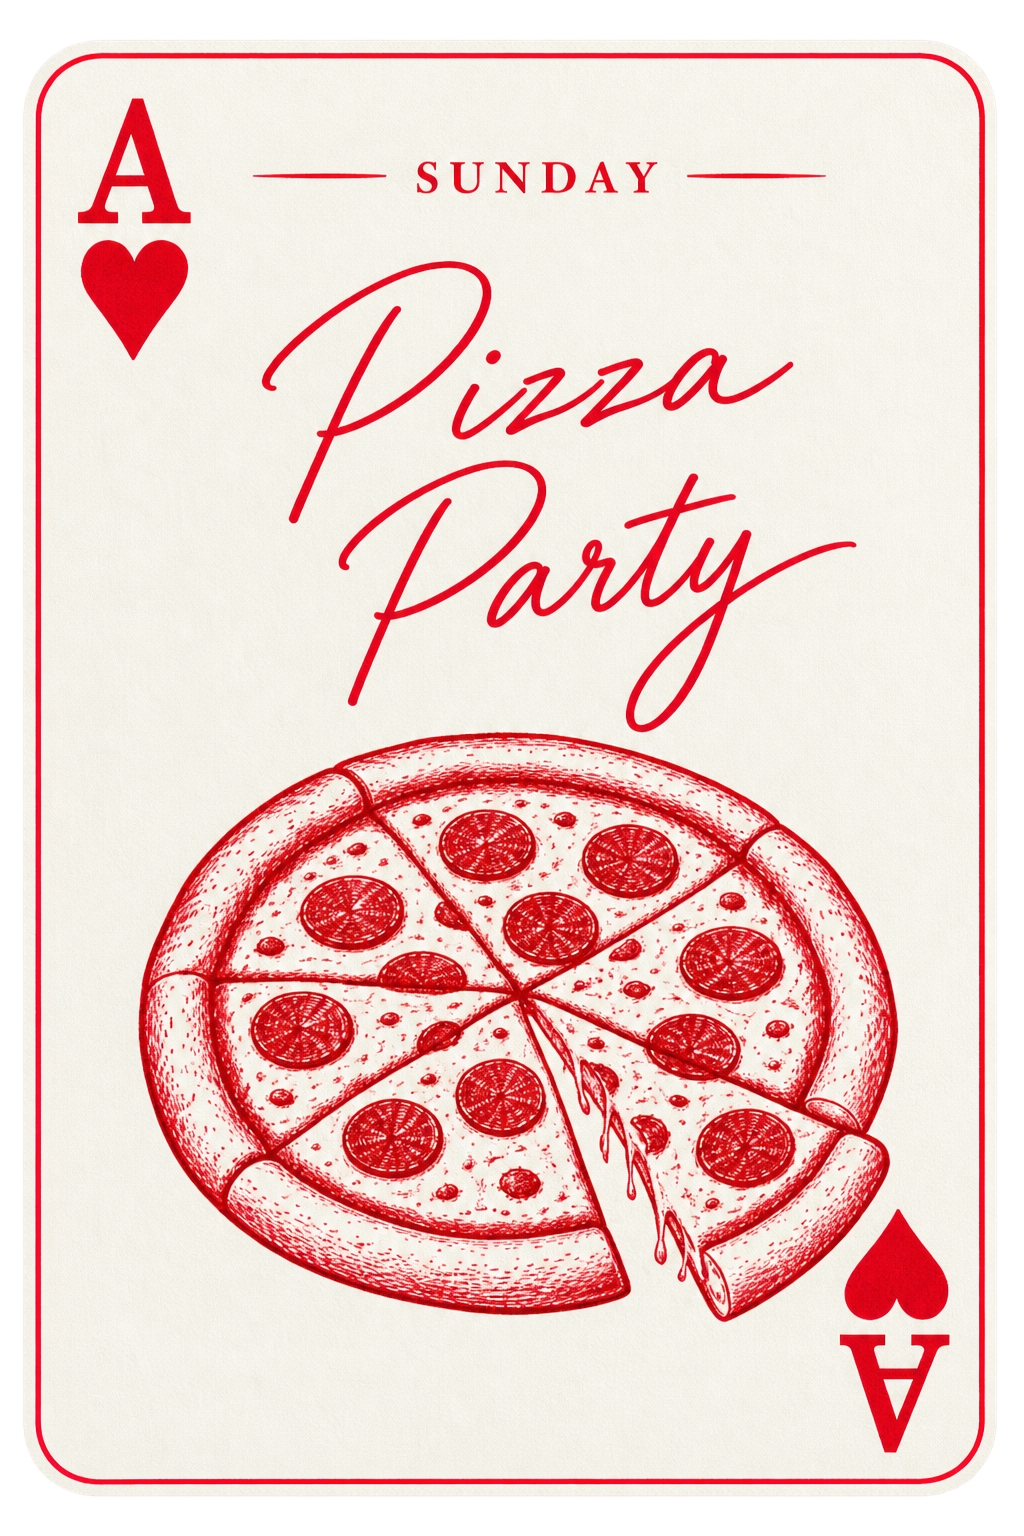
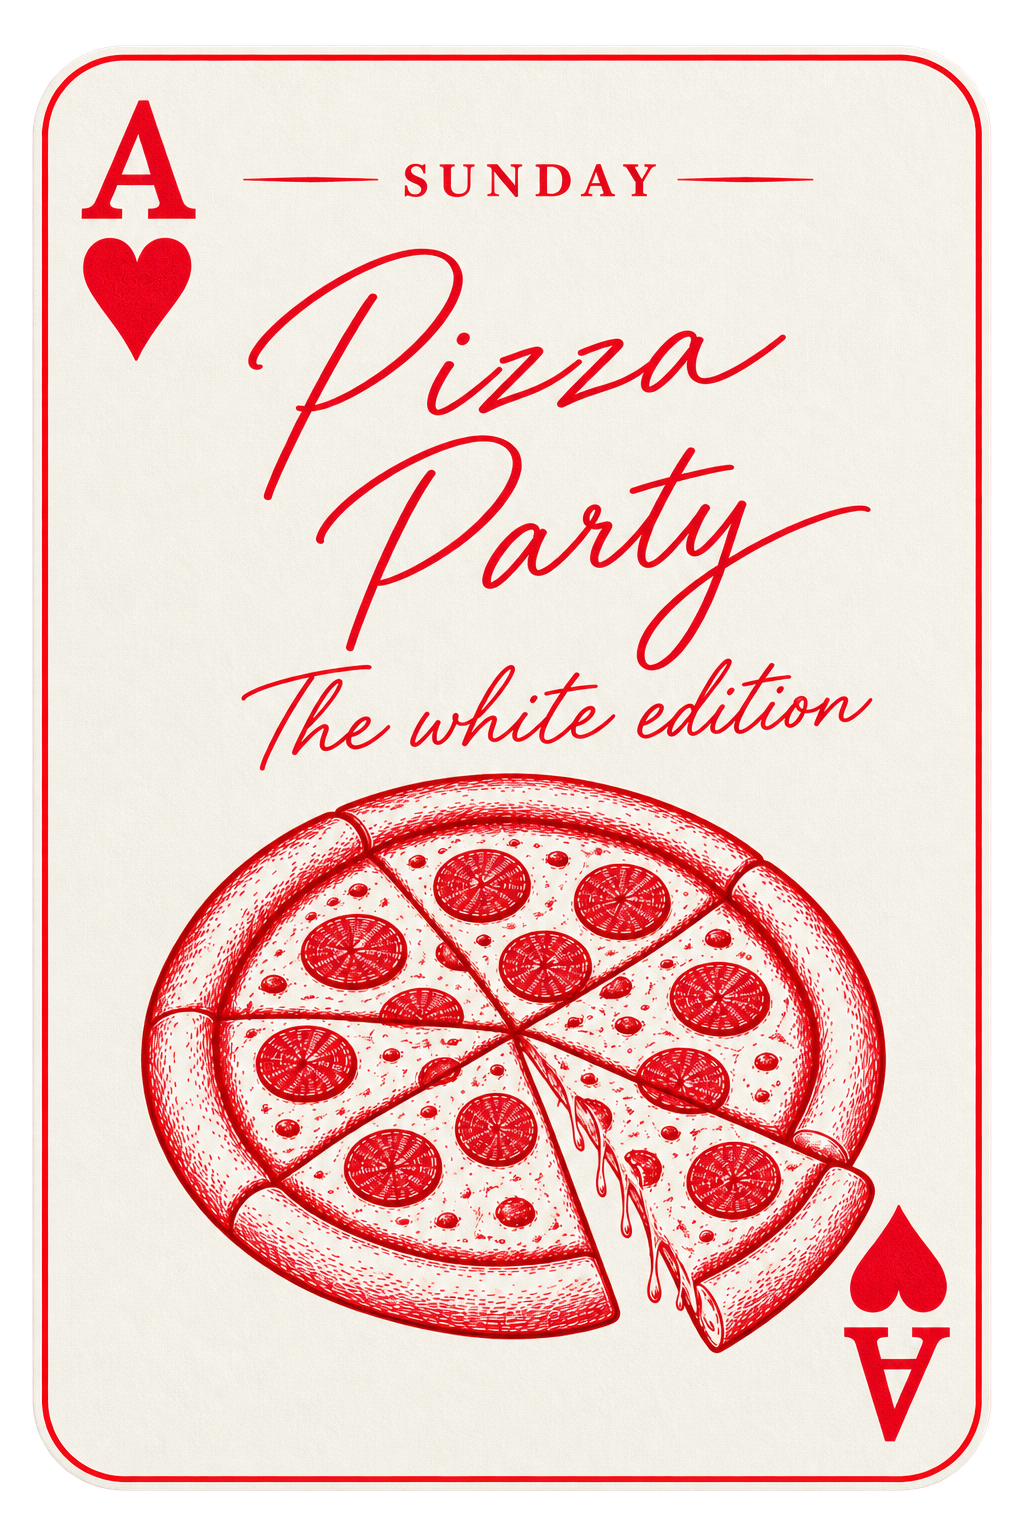
feat(itinerary): update dress code with pinterest inspo, sunday pizza card, and additional room photos

Changed region(s): [[0.0312, 0.0312, 0.9688, 0.9688], [0.25, 0.0938, 0.625, 0.125], [0.6875, 0.0938, 0.7812, 0.125]]

diff --git a/src/features/itinerary/components/itinerary.jsx b/src/features/itinerary/components/itinerary.jsx
@@ -11,6 +11,39 @@ const EVENT_IMAGES = {
   white_pizza_party: getAssetPath("/images/sunday-pizza.png"),
 };
 
+const renderFormattedText = (text) => {
+  if (!text) return null;
+  const parts = [];
+  const regex = /\[([^\]]+)\]\(([^)]+)\)/g;
+  let lastIndex = 0;
+  let match;
+
+  while ((match = regex.exec(text)) !== null) {
+    if (match.index > lastIndex) {
+      parts.push(text.substring(lastIndex, match.index));
+    }
+    parts.push(
+      <a
+        key={match.index}
+        href={match[2]}
+        target="_blank"
+        rel="noopener noreferrer"
+        className="underline underline-offset-4 text-[#bc2c1a] hover:text-[#932214] font-semibold transition-colors cursor-pointer inline-flex items-center"
+        onClick={(e) => e.stopPropagation()}
+      >
+        {match[1]}
+      </a>,
+    );
+    lastIndex = regex.lastIndex;
+  }
+
+  if (lastIndex < text.length) {
+    parts.push(text.substring(lastIndex));
+  }
+
+  return parts.length > 0 ? parts : text;
+};
+
 export default function Itinerary() {
   const { t, language } = useLanguage();
   const { hasFeature } = useInvitation();
@@ -131,7 +164,7 @@ export default function Itinerary() {
                 )}
                 {event.description && (
                   <div className="text-gray-600 font-serif text-[9px] min-[360px]:text-[11px] sm:text-sm md:text-base leading-relaxed pt-1 sm:pt-2 text-opacity-90 space-y-1 sm:space-y-1.5 whitespace-pre-line">
-                    {event.description}
+                    {renderFormattedText(event.description)}
                   </div>
                 )}
                 {event.dressCode && (
@@ -141,7 +174,7 @@ export default function Itinerary() {
                         isRight ? "text-right" : "text-left"
                       }`}
                     >
-                      {event.dressCode}
+                      {renderFormattedText(event.dressCode)}
                     </p>
                   </div>
                 )}

diff --git a/src/features/accommodation/components/venue-gallery-modal.jsx b/src/features/accommodation/components/venue-gallery-modal.jsx
@@ -13,6 +13,14 @@ const GALLERY_IMAGES = [
   getAssetPath("/images/rooms/8.jpg"),
   getAssetPath("/images/rooms/11.jpg"),
   getAssetPath("/images/rooms/12.jpg"),
+  getAssetPath("/images/rooms/room-extra-1.png"),
+  getAssetPath("/images/rooms/room-extra-2.png"),
+  getAssetPath("/images/rooms/room-extra-3.png"),
+  getAssetPath("/images/rooms/room-extra-4.png"),
+  getAssetPath("/images/rooms/room-extra-5.png"),
+  getAssetPath("/images/rooms/room-extra-6.png"),
+  getAssetPath("/images/rooms/room-extra-7.png"),
+  getAssetPath("/images/rooms/room-extra-8.png"),
 ];
 
 export default function VenueGalleryModal({ isOpen, onClose }) {
